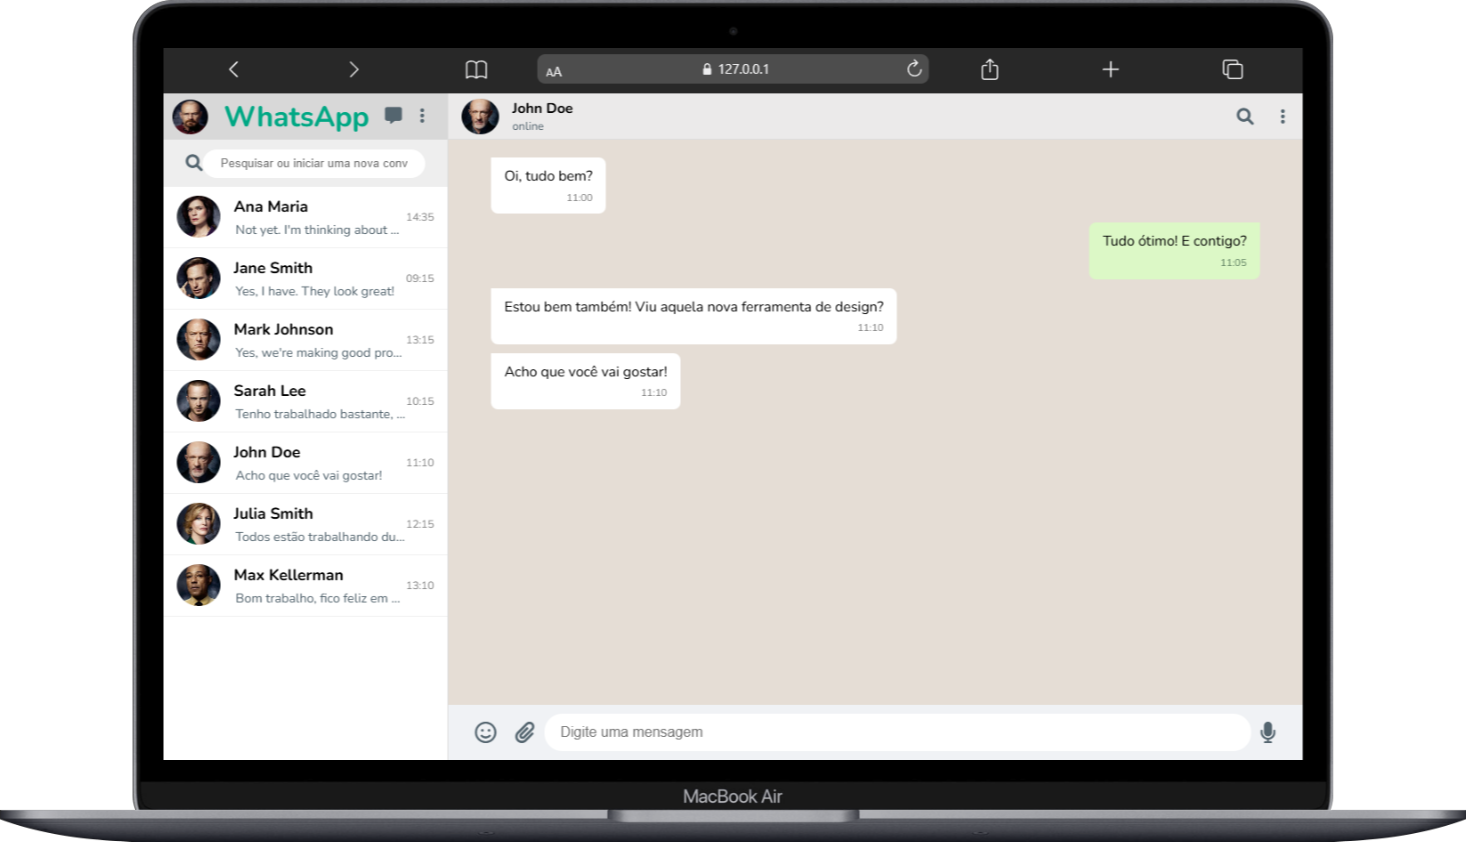
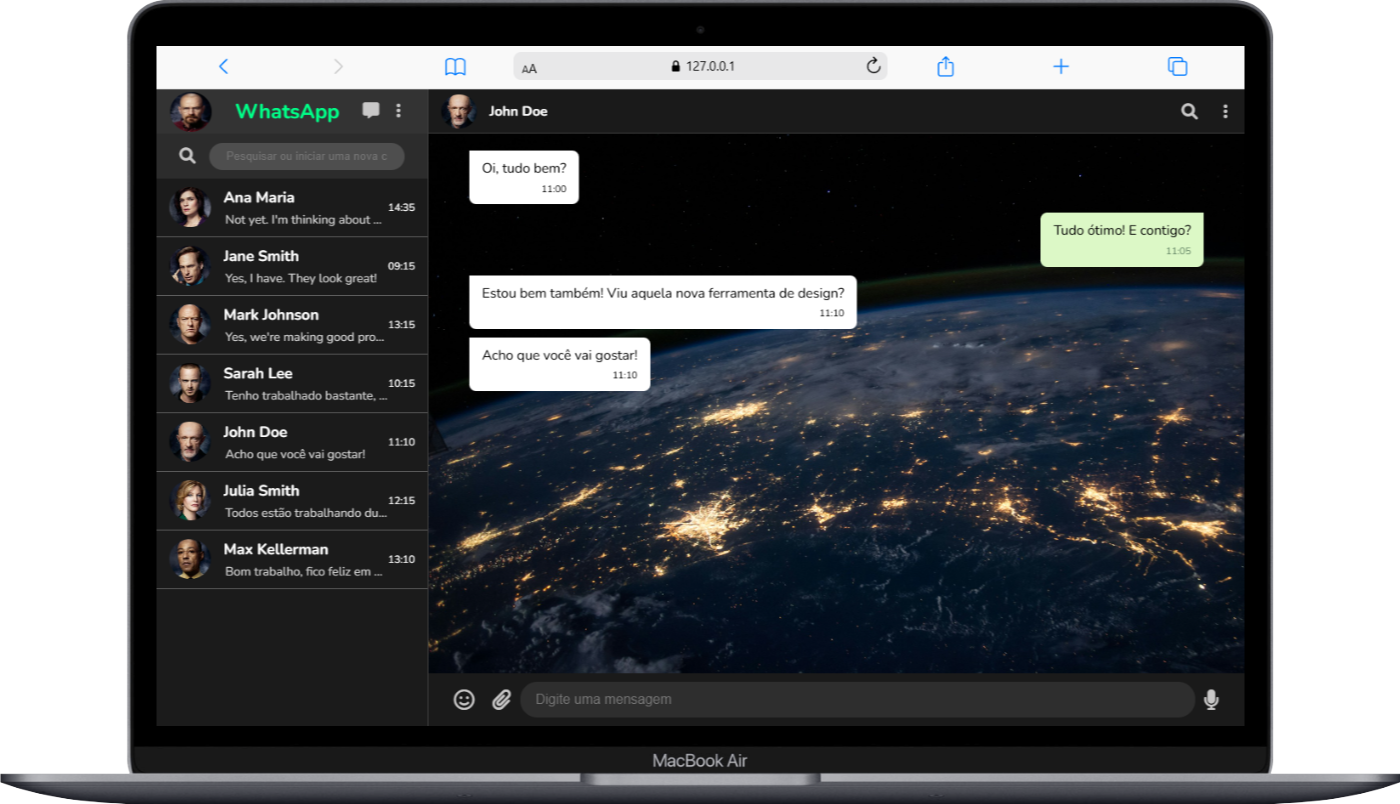
alterando as cores

diff --git a/style.css b/style.css
@@ -5,32 +5,36 @@
 }
 
 body {
-    background-color: rgb(212, 212, 212);
     font-family: "Nunito", sans-serif;
     display: flex;
     height: 100vh; 
     width: 100vw;  
     font-family: 'Nunito', sans-serif;
-    background-color: #f0f2f5;
+    background-color: #111111;
     overflow: hidden;
+    color: #fff;
 }
 
 .section-contatos {
-    background-color: rgb(255, 255, 255);
+    background-color: #111111;
     width: 25vw;
     height: 100vh;
     display: flex;
     flex-direction: column;
-    border-right: 1px solid #ddd;
-    background: #fff;
+    border-right: 1px solid #3f3f3f;
 }
 
 .cabecalho-section-contatos {
     height: 14vh;
 }
 
+i:hover {
+    color: #fafafa;
+    cursor: pointer;
+}
+
 .icones-contatos {
-    color: #54656f;
+    color: #c9c8c8;
 }
 
 .icones-contatos i {
@@ -39,36 +43,38 @@ body {
 }
 
 .perfil-cabecalho {
-    background-color: rgb(216, 216, 216);
+    background-color: rgb(51, 51, 51);
     height: 7vh;
     display: flex;
     align-items: center;
     justify-content: space-between;
-    padding: 0 20px;
+    padding: 0 16px 0 16px;
 }
 
 .perfil-cabecalho h1 {
-    color: #00a884;
+    font-size: 1.5rem;
+    color: #00ff88;
 }
 
 .foto-perfil-cabecalho {
-    width: 51px;
-    height: 49px;
+    width: 49px;
+    height: 47px;
     border-radius: 50%;
 }
 
 .pesquisar-cabecalho {
-    background-color: rgb(238, 238, 238);
+    background-color: rgb(44, 44, 44);
     height: 7vh;
     display: flex;
     align-items: center;
     justify-content: space-around;
-    padding: 0 25px;
+    padding: 0 27px;
 }
 
 .icone-pesquisar {
     font-size: 1.2rem;
-    color: #54656f;
+    color: #c9c8c8;
+    padding-right: 1rem;
 }
 
 #input-cabecalho {
@@ -80,23 +86,25 @@ body {
     display: flex;
     align-items: center;
     padding: 10px 20px;
+    background-color: #4e4e4e;
+    color: #fafafa;
 }
 
 .chat-lista {
     flex: 1;
     overflow-y: auto;
-    background: #fff;
+    background: #1b1b1b;
 }
 
 .chat-item {
     display: flex;
     align-items: center;
     padding: 10px 15px;
-    border-bottom: 1px solid #f0f0f0;
+    border-bottom: 1px solid #5f5f5f;
 }
 
 .chat-item:hover {
-    background: #f5f5f5;
+    background: #383838;
     cursor: pointer;
 }
 
@@ -120,7 +128,7 @@ body {
 }
 
 .ultima-mensagem {
-    color: #54656f;
+    color: #d3d3d3;
     font-size: 0.9rem;
     margin-top: 4px;
     padding-left: 2px;
@@ -139,22 +147,23 @@ body {
 
 .horario {
     font-size: 0.75rem;
-    color: #888;
+    color: #ffffff;
 }
 
 .section-conversa {
     flex: 1;
     display: flex;
     flex-direction: column;
-    background-color: #e5ddd5;
+    background-image: url(./img/background.jpg);
+    background-size: cover;
 }
 
 .chat-cabecalho {
     display: flex;
     align-items: center;
     padding: 10px 15px;
-    background: rgb(235, 234, 234);
-    border-bottom: 1px solid #ddd;
+    background: rgb(26, 26, 26);
+    border-bottom: 1px solid #3f3f3f;
     height: 7vh;
 }
 
@@ -186,16 +195,11 @@ body {
     font-weight: bold;
 }
 
-.contato-status {
-    font-size: 0.8rem;
-    color: #54656f;
-}
-
 .chat-icones {
     display: flex;
     gap: 20px;
     font-size: 1.2rem;
-    color: #54656f;
+    color: #c9c8c8;
 }
 
 .chat-icones i {
@@ -210,6 +214,7 @@ body {
     margin-bottom: 10px;
     line-height: 1.4;
     word-wrap: break-word;
+    color: #000000;
 }
 
 .mensagem p {
@@ -218,14 +223,14 @@ body {
 
 .mensagem .horario {
     font-size: 0.7em;
-    color: #888;
+    color: #000000;
     text-align: right;
     margin-top: 5px;
     display: block;
 }
 
 .mensagem.recebida {
-    background-color: #fff;
+    background-color: #ffffff;
     align-self: flex-start; 
     border-radius: 0px 8px 8px 8px; 
 }
@@ -243,14 +248,19 @@ body {
 .mensagem-input-barra {
     display: flex;
     align-items: center;
+    justify-content: space-around;
     padding: 10px 20px;
-    background: #f0f2f5;
+    background: #1a1a1a;
+}
+
+.mensagem-input-barra input {
+    background: #2e2e2e;
+    color: #fafafa;
 }
 
 .mensagem-input-barra i {
     font-size: 1.5rem;
-    color: #54656f;
-    cursor: pointer;
+    color: #c9c8c8;
     padding: 0 10px;
 }
 
